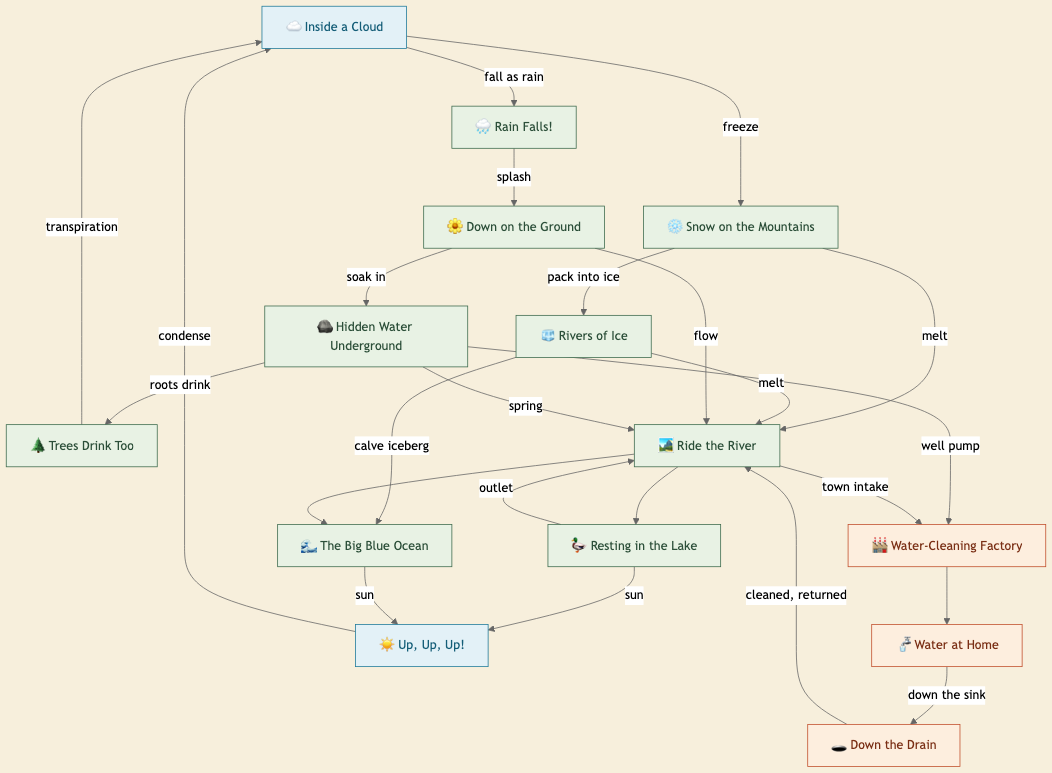
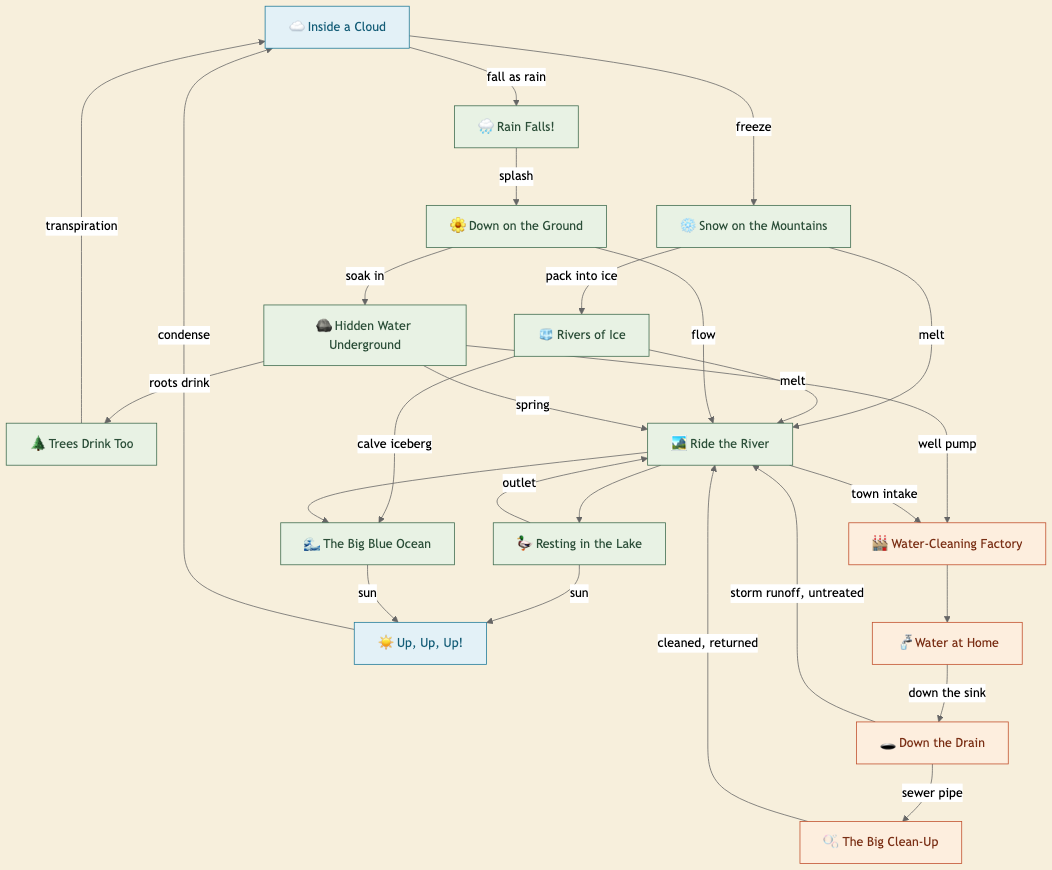
Redesign drain scene with coherent plumbing; add wastewater plant node
The old drain cutaway had hallucinated pipe topology (dead-end pipes,
water flowing into nowhere). New painting shows a readable system: a
house cross-section with sink/toilet draining into the sewer main, and
a street storm-drain grate catching rain runoff.

The wastewater plant is now its own scene. The graph gains a real-world
distinction: sewer water rides to the wastewater plant for cleaning
(drain -> wastewater -> river) while storm runoff flows to the river
untreated (drain -> river) - the reason you never dump anything down a
storm drain. 15 scenes total; passport, README diagram, and docs
updated.

diff --git a/js/data.js b/js/data.js
@@ -188,7 +188,7 @@ const SCENES = {
     back: [
       { to: "meadow", label: "A stream in the meadow", question: "Where did the river start?", x: 8, y: 30 },
       { to: "snow", label: "Melting mountain snow", question: "", x: 35, y: 8 },
-      { to: "drain", label: "Cleaned water from the town", question: "", x: 78, y: 10 }
+      { to: "wastewater", label: "Cleaned water from the town", question: "", x: 78, y: 10 }
     ]
   },
 
@@ -311,20 +311,44 @@ const SCENES = {
     emoji: "🕳",
     stamp: "Pipe Maze",
     image: "assets/scenes/drain.png",
-    body: "Glug glug glug! Down the drain you go, into a maze of pipes under the city. But this isn't goodbye — you ride the pipes to a wastewater plant, where you get scrubbed clean and sent back to the river. The journey never ends!",
+    body: "Glug glug glug! Down you go, into the secret world of pipes under the street. Water from the sink and toilet rides the sewer pipe. Rain that washes off the street falls through the storm drain. Two pipes, two different adventures!",
     hotspots: [
-      { x: 20, y: 50, label: "The pipes",
-        fact: "Under every street is a hidden world of pipes. Some bring clean water to houses, and others carry used water away. They never get mixed up!" },
-      { x: 52, y: 40, label: "The wastewater plant",
-        fact: "At the wastewater plant, helpful machines — and even helpful germs! — eat up the yucky stuff. The water leaves much cleaner than it arrived." },
-      { x: 75, y: 62, label: "Back to the river",
-        fact: "After it's cleaned, the water flows back into the river to keep traveling. Water is never used up — it just keeps moving, around and around!" }
+      { x: 14, y: 48, label: "The house pipes",
+        fact: "Every sink, tub, and toilet in the house empties into one big pipe — the sewer pipe. It carries the used water away to get cleaned." },
+      { x: 43, y: 50, label: "The storm drain",
+        fact: "That metal grate is a storm drain. When rain washes the street, the water falls right in — so the streets don't turn into rivers!" },
+      { x: 58, y: 72, label: "Where does it all go?",
+        fact: "Sewer water goes to the wastewater plant for a good scrubbing. But storm water usually is not cleaned — it flows straight to the creek! That's why we never pour yucky stuff down a storm drain." }
     ],
     next: [
-      { to: "river", label: "Flow back to the river, clean!", question: "You're clean again! Where now?", x: 90, y: 42 }
+      { to: "wastewater", label: "Ride the sewer pipe to get cleaned", question: "Two pipes, two paths! Which one are you riding?", x: 72, y: 42 },
+      { to: "river", label: "Rush out with the storm water", question: "", x: 86, y: 84 }
     ],
     back: [
-      { to: "tap", label: "The kitchen sink", question: "How did you get here?", x: 12, y: 10 }
+      { to: "tap", label: "The kitchen sink", question: "How did you get here?", x: 8, y: 12 },
+      { to: "rain", label: "Rain falling on the street", question: "", x: 55, y: 10 }
+    ]
+  },
+
+  wastewater: {
+    title: "The Big Clean-Up",
+    emoji: "🫧",
+    stamp: "Bubble Works",
+    image: "assets/scenes/wastewater.png",
+    body: "Phew — you made it to the wastewater plant, the bath house for dirty water! Machines stir you, bubbles fizz all around you, and billions of tiny helpful germs gobble up the yucky bits. Soon you're fresh enough to go back to nature.",
+    hotspots: [
+      { x: 33, y: 60, label: "The bubble tanks",
+        fact: "Air bubbles fizz through the water like a giant soda. The bubbles help tiny helpful germs breathe while they eat up the dirt." },
+      { x: 50, y: 34, label: "The settling pools",
+        fact: "In these quiet pools the water slows down and rests. The last bits of gunk sink to the bottom, and the clean water floats on top." },
+      { x: 79, y: 60, label: "The way out",
+        fact: "Checked, cleaned, and approved! The water flows back to the river much cleaner than it arrived. Nature gets its water back." }
+    ],
+    next: [
+      { to: "river", label: "Flow back to the river, clean!", question: "You're clean again! Where now?", x: 85, y: 72 }
+    ],
+    back: [
+      { to: "drain", label: "The pipes under the street", question: "How did you get here?", x: 10, y: 16 }
     ]
   }
 
@@ -333,5 +357,6 @@ const SCENES = {
 const START_SCENE = "rain";
 const SCENE_ORDER = [
   "rain", "cloud", "snow", "glacier", "meadow", "groundwater", "trees",
-  "river", "lake", "ocean", "evaporation", "treatment", "tap", "drain"
+  "river", "lake", "ocean", "evaporation", "treatment", "tap", "drain",
+  "wastewater"
 ];

diff --git a/index.html b/index.html
@@ -37,7 +37,7 @@
     </div>
     <button id="passport-button" class="passport-button" aria-label="Open your water passport">
       <span class="passport-icon">📖</span>
-      <span id="passport-count" class="passport-count">0 / 14</span>
+      <span id="passport-count" class="passport-count">0 / 15</span>
       <span class="passport-label">My Passport</span>
     </button>
   </header>

diff --git a/build/regenerate-images.py b/build/regenerate-images.py
@@ -111,11 +111,23 @@ PROMPTS = {
         "stove at the right. Warm wood counters, a potted plant, soft light."
     ),
     "drain": (
-        "A picture-book cutaway under a city street: houses and a road along "
-        "the top, and below ground a maze of pipes carrying bright blue water "
-        "from a house drain on the upper-left to a friendly wastewater "
-        "treatment chamber with bubbles in the center-right, then out through "
-        "a pipe of clean sparkling water to a river at the lower-right."
+        "A picture-book cutaway diagram under a small town street, drawn with "
+        "simple, clear, easy-to-follow plumbing. On the left, a cross-section "
+        "of a cozy two-story house: a kitchen sink upstairs and a toilet "
+        "downstairs, each draining into one vertical pipe that runs down into "
+        "a single large underground sewer pipe. In the middle, the rainy "
+        "street surface: gutter water pours through a storm drain grate into "
+        "a second, separate pipe. Both pipes run side by side through brown "
+        "earth and exit off the right edge, blue water flowing right inside "
+        "them. No dead ends, no extra pipes."
+    ),
+    "wastewater": (
+        "A friendly wastewater treatment plant on a green riverside: a big "
+        "pipe arrives from the left with murky gray-blue water, pouring into "
+        "round open tanks fizzing with air bubbles, then calm rectangular "
+        "settling pools, and on the right a clear outflow pipe releases "
+        "clean sparkling water into a river along the right edge. Tidy cream "
+        "buildings with terracotta roofs behind, lawns and small trees."
     ),
 }
 

diff --git a/README.md b/README.md
@@ -27,7 +27,7 @@ clean and comes back.
 
 ## The map
 
-Fourteen scenes in one connected cycle — the nature loop, plus the human
+Fifteen scenes in one connected cycle — the nature loop, plus the human
 water loop that borrows from the river and gives it back
 (forward edges shown; most are also walkable backward in-game):
 
@@ -47,6 +47,7 @@ flowchart TD
     treatment["🏭 Water-Cleaning Factory"]
     tap["🚰 Water at Home"]
     drain["🕳 Down the Drain"]
+    wastewater["🫧 The Big Clean-Up"]
 
     cloud -->|fall as rain| rain
     cloud -->|freeze| snow
@@ -70,14 +71,16 @@ flowchart TD
     evaporation -->|condense| cloud
     treatment --> tap
     tap -->|down the sink| drain
-    drain -->|cleaned, returned| river
+    drain -->|sewer pipe| wastewater
+    drain -->|storm runoff, untreated| river
+    wastewater -->|cleaned, returned| river
 
     classDef nature fill:#e8f2e4,stroke:#3e6b4e,color:#2c4f39
     classDef human fill:#fdeede,stroke:#c14f2c,color:#7a2f15
     classDef sky fill:#e3f1f7,stroke:#1f7a99,color:#155e78
 
     class rain,snow,glacier,meadow,groundwater,trees,river,lake,ocean nature
-    class treatment,tap,drain human
+    class treatment,tap,drain,wastewater human
     class cloud,evaporation sky
 ```
 

diff --git a/CLAUDE.md b/CLAUDE.md
@@ -57,8 +57,10 @@ desktop); on phones, CSS clamps all in-scene elements to y ≤ 52%.
 
 The graph is a cycle: nature loop (cloud → rain/snow → land → river →
 lake/ocean → evaporation → cloud) plus a human loop (river/groundwater →
-treatment → tap → drain → river). Every scene must remain reachable and
-must have at least one `next` so the journey never dead-ends.
+treatment → tap → drain → wastewater → river, with a storm-runoff
+shortcut drain → river that is deliberately untreated — a real-world
+teaching point). Every scene must remain reachable and must have at
+least one `next` so the journey never dead-ends.
 
 ## Adding a scene
 
